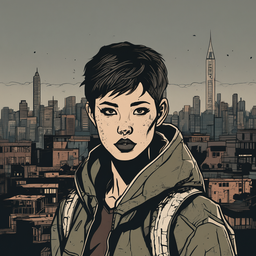
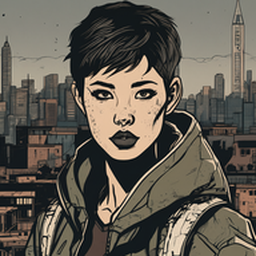
미국 애니메이션 화풍: 얼굴이 작은 18장을 완성본에서 바로 당겨 자르기 (12-139)
- 얼굴 zoom: 완성된 256 그림에서 얼굴을 재서 더 당겨 잘라 키운다 (다시 생성하지 않아 장당 몇 초)
  다시 그릴 때는 자르는 영역을 1/zoom로 줄여 같은 결과를 내고, 그림이 바뀌지 않으니 설정 해시에서 뺀다
- 남 m2·m3·m4·m5·m10·m23·m24, 여 f1~f8·f14·f16·f19 (1.1~1.43배, 사진마다 잰 값)

diff --git a/scripts/portraits.ts b/scripts/portraits.ts
@@ -53,6 +53,11 @@ type Character = {
   source?: string;
   /** 화풍의 색 보정 대신 이것을 쓴다 (톤만 바꿀 때) */
   grade?: Grade;
+  /**
+   * 완성본을 이만큼 더 당겨 자른다 (1.2면 얼굴이 1.2배). 완성된 256 그림을 바로 잘라 키우며 다듬을 때 기록해 두는 값으로,
+   * 다시 그릴 때는 자르는 영역을 1/zoom로 줄여 같은 결과를 낸다. 그림 자체가 바뀌지 않으니 설정 해시에서 뺀다
+   */
+  zoom?: number;
   /** 화풍의 colorize 지시로 색을 입힌다 (흑백·회색조로 그려진 그림) */
   colorize?: boolean;
   /** 마지막에 이 지시 하나만으로 Qwen 편집을 한 번 더 한다 (특정 부분만 고칠 때. 다른 지시와 섞으면 잘 안 먹힌다) */
@@ -205,7 +210,7 @@ for (const job of jobs) {
   job.crop = null;
   if (framing) {
     const { width, height } = pngSize(job.raw);
-    if (face) job.crop = planCrop(face, width, height, (style.crop_scale ?? 1) * (job.ch.crop_scale ?? 1));
+    if (face) job.crop = planCrop(face, width, height, ((style.crop_scale ?? 1) * (job.ch.crop_scale ?? 1)) / (job.ch.zoom ?? 1));
     else console.error(`  ! ${job.prefix}: 얼굴을 찾지 못해 가운데를 자릅니다`);
   }
   const p = job.crop?.pad;
@@ -243,7 +248,7 @@ function hashOf(ch: Character): string {
   const fileHash = (f?: string) => (f && existsSync(join(artDir, f)) ? sha(readFileSync(join(artDir, f))) : null);
   return sha(
     JSON.stringify({
-      style: st, common: config.common, framing, cleanup: config.cleanup, size: config.output_size, ch,
+      style: st, common: config.common, framing, cleanup: config.cleanup, size: config.output_size, ch: { ...ch, zoom: undefined },
       grade: grade ? { ...grade, file: fileHash(grade.ref) } : null, source: fileHash(ch.source),
     }),
   );
@@ -587,6 +592,7 @@ function validate(c: Config) {
   }
   for (const [id, ch] of Object.entries(c.faces ?? {})) {
     if (ch?.source && !existsSync(join(artDir, ch.source))) fail(`faces.${id}.source: ${ch.source} 가 없습니다`);
+    if (ch?.zoom !== undefined && !(ch.zoom >= 1 && ch.zoom <= 2)) fail(`faces.${id}.zoom은 1~2 사이`);
     if (ch?.crop_scale !== undefined && !(ch.crop_scale > 0.5 && ch.crop_scale < 2)) fail(`faces.${id}.crop_scale은 0.5~2 사이`);
     if (!/^[a-z0-9_-]{1,40}$/.test(id)) fail(`faces.${id}: id는 영문 소문자·숫자·_·-만 (40자까지)`);
     if (!c.styles[ch?.style]) fail(`faces.${id}: 없는 화풍 ${ch?.style}`);
